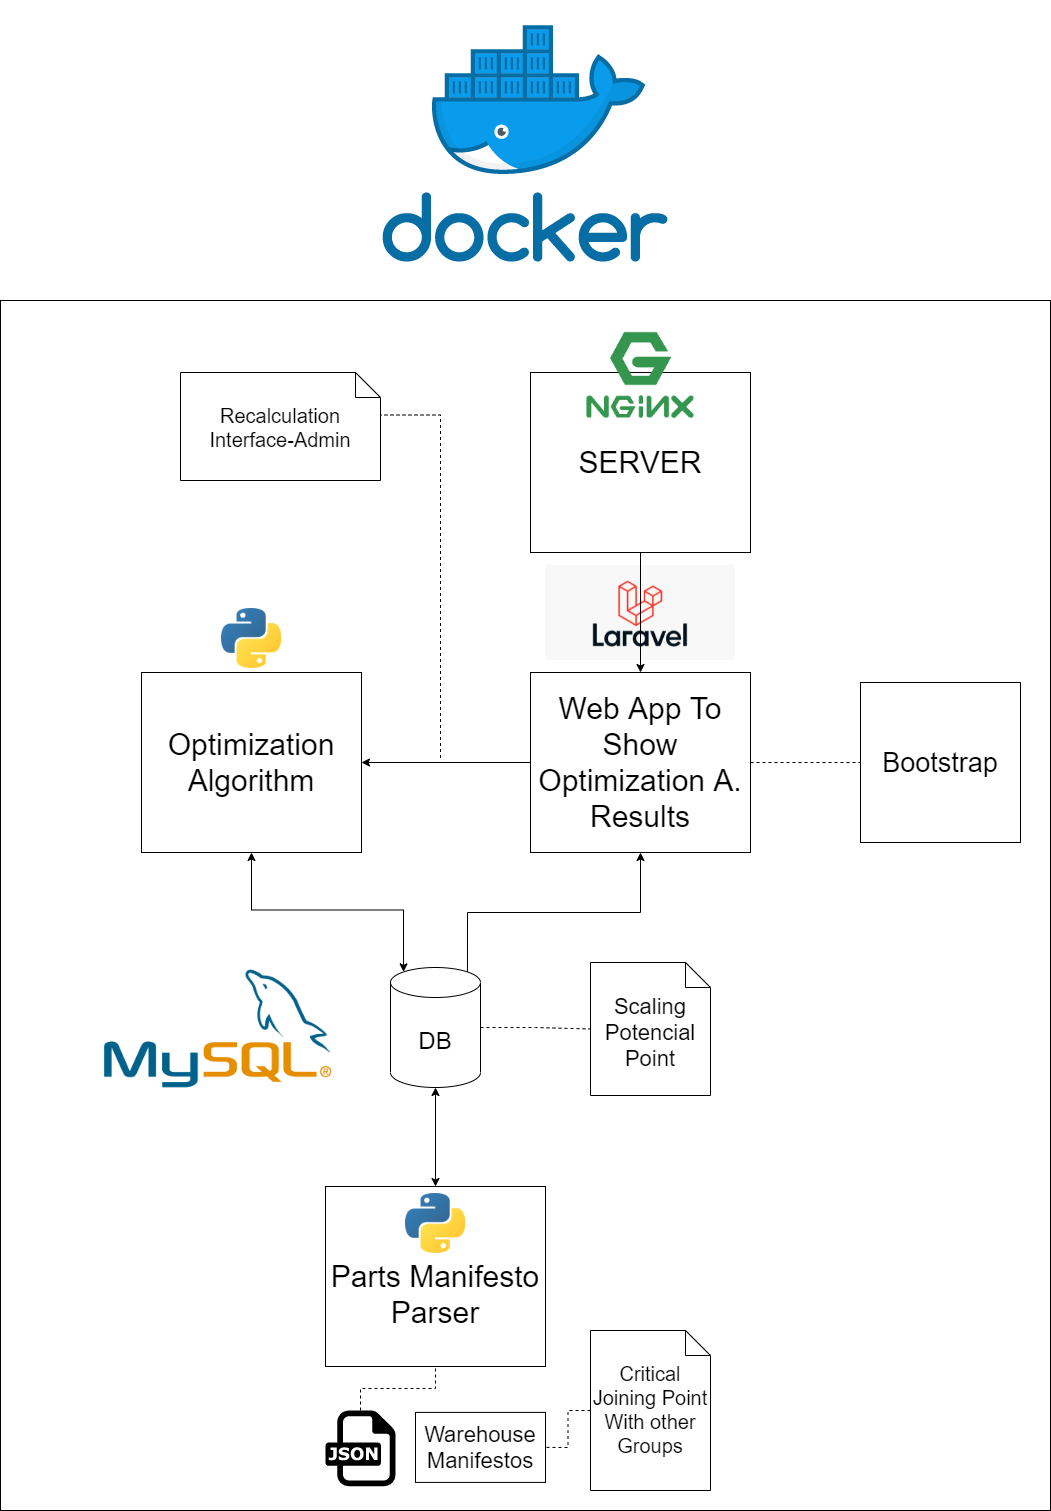
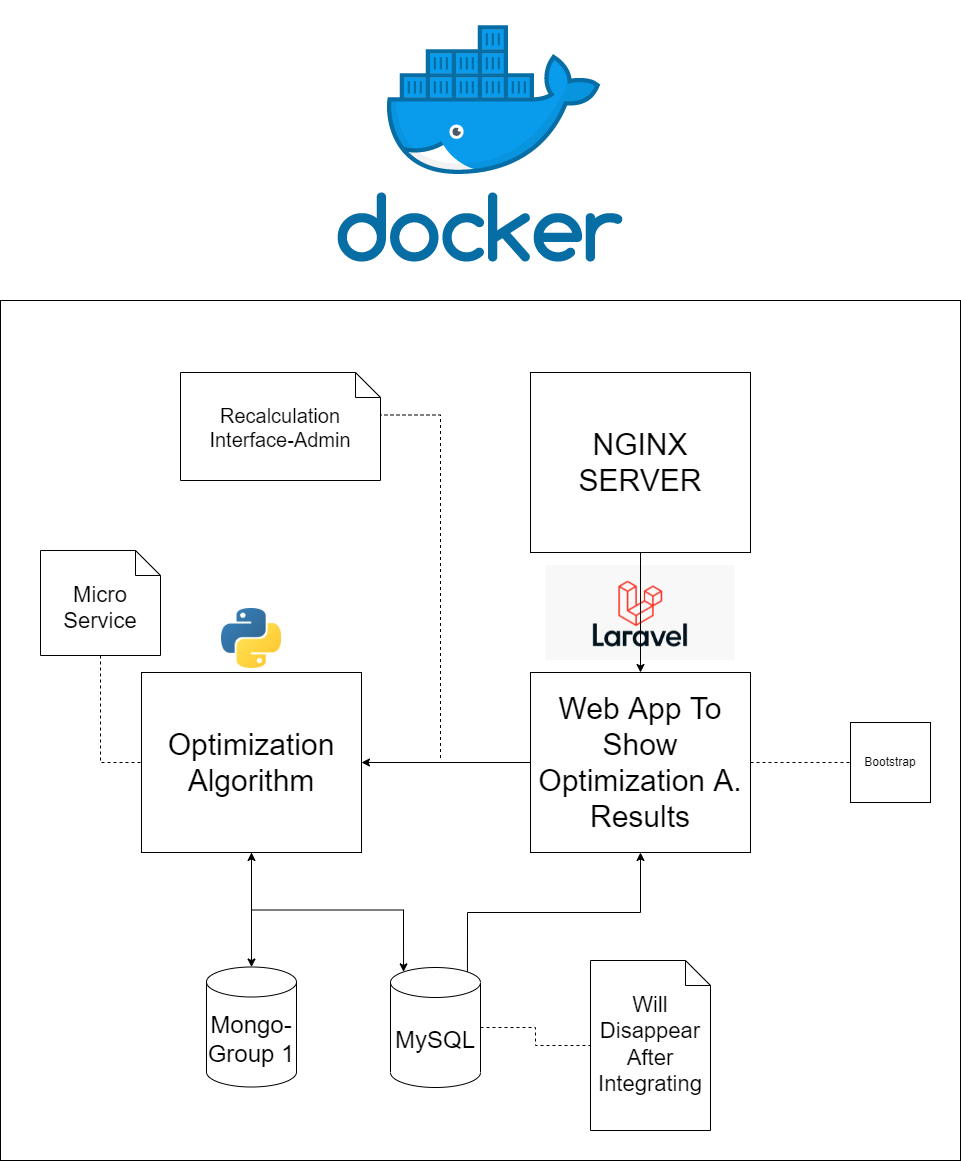
Update the architecture diagram

diff --git a/wiki/3-architecture.md b/wiki/3-architecture.md
@@ -27,3 +27,5 @@ Tools:
 * Bootstrap: Frontend library for rich web layouts. Flexible ensures adaptability to multiple screen sizes out of the box.
 
 * MySQL: Mainstream DB framework. Our main concern is not to deal with data, but to process data, so the decision here was just to configure the simplest element for this task as possible. This will be handled in detail by another group, our task is to ensure easy further integration and MySQL is the right tool for that.
+
+* Mongo: Group 1 solution to provide a data lake.
